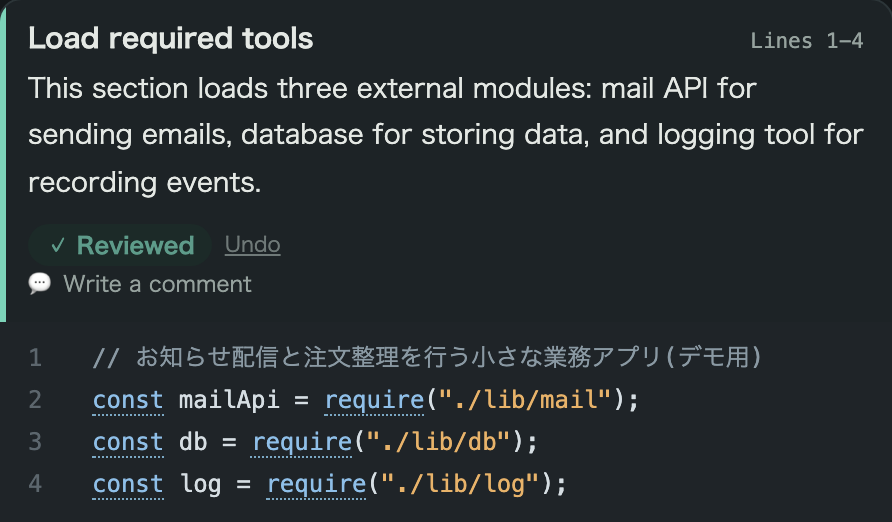
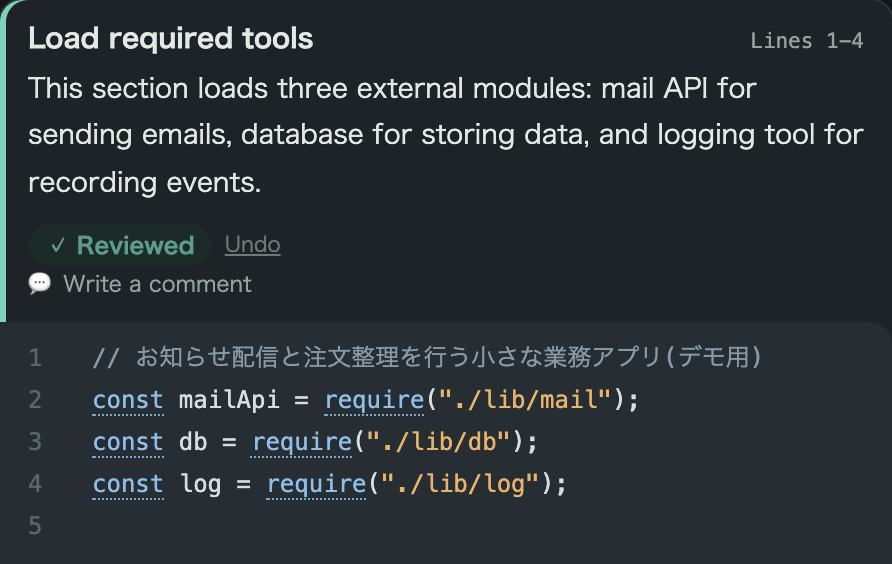
総点検で見つかった表示欠陥を修正: 全行表示の保証・説明の追従・長い行の折り返し
7場面(広い画面/明暗2配色/大きいファイル/物語再生/スマホ幅/埋め込み版/保存領域が使えない環境)を
自動監査した結果、次の3つを修正:

1. コードの穴: 説明の切れ目に挟まれた行(閉じ括弧・空行)が画面のどこにも出ていなかった
   (13ファイル・計71行が消失)。表示範囲を次のまとまり直前まで伸ばし、全行が必ず1度だけ出る
   ようにした。実測: 欠落0・重複0
2. 説明が置き去り: 長いまとまりでコードだけを空白の横で読む状態になっていた(親要素の
   overflow:hidden が追従を無効化していた)。説明がコードに寄り添って留まるようにした
3. 隠れたコード: 長い行が右端で切れ、横スクロールしないと読めなかった → 折り返して全文表示

検証: 全7場面で 未表示コード0・隠れたコード0・行の欠落0・横はみ出し0 (ALL_OK)
スクリーンショットとマニュアルも新レイアウトで撮り直し

diff --git a/generator/view-app.html b/generator/view-app.html
@@ -49,7 +49,12 @@
   .filehead { font-size:13px; font-weight:700; margin:16px 0 6px; display:flex; gap:8px; align-items:center; flex-wrap:wrap; }
   .filehead .role { font-weight:400; color:var(--muted); font-size:12px; }
   .achip { font-size:10px; font-weight:400; background:var(--soft); color:var(--muted); padding:0 7px; border-radius:999px; }
-  .pairsfile { border:1px solid var(--line); border-radius:12px; overflow:hidden; margin-bottom:20px; background:var(--surface); }
+  /* overflow:hidden は説明の追従(sticky)を壊すので使わない。角丸は端のセルに直接かける */
+  .pairsfile { border:1px solid var(--line); border-radius:12px; margin-bottom:20px; background:var(--surface); }
+  .pairsfile .sec:first-child .sec-l { border-top-left-radius:11px; }
+  .pairsfile .sec:first-child .sec-r { border-top-right-radius:11px; }
+  .pairsfile .sec:last-child .sec-l { border-bottom-left-radius:11px; }
+  .pairsfile .sec:last-child .sec-r { border-bottom-right-radius:11px; }
   .sec { display:grid; grid-template-columns:minmax(0,26rem) minmax(0,1fr); }
   .sec + .sec .sec-l { border-top:1px solid var(--line); }
   .sec:hover .sec-r { background:#262E34; }
@@ -57,7 +62,9 @@
   .sec.imp .sec-l { box-shadow:inset 3px 0 0 var(--warn-fg); }
   .sec.done-ok .sec-l { box-shadow:inset 3px 0 0 var(--ok-fg); }
   .sec.done-ng .sec-l { box-shadow:inset 3px 0 0 var(--crit-fg); }
-  .sec-l { padding:9px 14px 9px; display:flex; flex-direction:column; }
+  .sec-l { padding:9px 14px 9px; }
+  /* 長いまとまりでも説明がコードに寄り添って留まる(読んでいる場所と説明がずれない) */
+  .lwrap { position:sticky; top:44px; display:flex; flex-direction:column; }
   .sec-h { font-weight:700; font-size:13.5px; line-height:1.6; margin-bottom:2px; display:flex; align-items:baseline; gap:8px; }
   .sec-h .sec-a { margin:0 0 0 auto; font-weight:400; }
   .crumb { font-size:10.5px; color:var(--muted); font-family:Menlo,monospace; margin-bottom:3px; }
@@ -67,8 +74,10 @@
   .sec-warn { font-size:12px; color:var(--warn-fg); background:var(--warn-bg); border-radius:6px; padding:4px 10px; margin-top:6px; line-height:1.65; }
   .sec-a { font-size:10.5px; color:var(--muted); font-family:Menlo,monospace; }
   .sec-r { background:#1F2428; color:#D6DEE3; padding:8px 0; overflow-x:auto; font-family:Menlo,monospace; font-size:12px; line-height:1.75; }
-  .ln { display:flex; padding:0 14px; white-space:pre; }
+  /* 長い行も隠さず折り返す(横スクロールしないと読めない状態を作らない) */
+  .ln { display:flex; padding:0 14px; }
   .ln .no { width:32px; color:#5C666D; flex-shrink:0; user-select:none; }
+  .ln .src { white-space:pre-wrap; overflow-wrap:anywhere; text-indent:-2em; padding-left:2em; }
   .kw { border-bottom:1px dotted #7BA8C4; cursor:help; }
   .c-com { color:#8A99A3; } .c-str { color:#E8B36A; } .c-key { color:#8FBFE8; }
   .ref { border-bottom:1px dashed #6BC5A8; cursor:pointer; }
@@ -89,7 +98,7 @@
   #storybar .nx { border-color:var(--accent); color:var(--accent); }
   body.storying .warp { display:none; }
   body.storying main { padding-bottom:160px; }
-  .ctrl { margin-top:auto; padding-top:8px; display:flex; gap:6px; flex-wrap:wrap; align-items:center; opacity:.55; transition:opacity .15s; }
+  .ctrl { margin-top:8px; display:flex; gap:6px; flex-wrap:wrap; align-items:center; opacity:.55; transition:opacity .15s; }
   .sec:hover .ctrl, .sec:focus-within .ctrl { opacity:1; }
   .ctrl button { font-family:inherit; font-size:11.5px; padding:2px 10px; border-radius:999px; border:1px solid var(--line); background:var(--surface); color:var(--muted); cursor:pointer; }
   .ctrl .ok:hover { border-color:var(--ok-fg); color:var(--ok-fg); }
@@ -441,13 +450,23 @@ function render() {
     if (activeFile !== "__all__" && f.path !== activeFile) continue;
     const fsecs = secs.filter(s => s.file === f.path);
     if (!fsecs.length) continue;
+    // 表示範囲の保証: 説明の切れ目で行が消えないよう、各まとまりの表示を次のまとまりの直前まで伸ばす
+    // (閉じ括弧や空行は直前のまとまりに付く)。これでファイルの全行が必ず1度だけ画面に出る。
+    const starts = fsecs.map(s => parseLines(s.lines)[0] || 1);
+    const spans = fsecs.map((s, i) => {
+      const a = i === 0 ? 1 : starts[i];
+      const b = (i === fsecs.length - 1) ? f.lines.length : Math.max(a, starts[i + 1] - 1);
+      return { a, b };
+    });
     const ltMap = {};
     d.line_translations.filter(t => t.file === f.path).forEach(t => ltMap[t.line] = t);
     h += `<div class="filehead">${esc(f.path)}<span class="role">${f.role ? "— " + esc(f.role) : ""}</span>${f.author ? `<span class="achip">${L.author}: ${esc(f.author)}</span>` : ""}</div><div class="pairsfile">`;
-    for (const s of fsecs) {
+    fsecs.forEach((s, si) => {
       const k = secKey(s), st = rv[k] || {};
       const ki = SECKEYS.push(k) - 1;
-      const lines = parseLines(s.lines);
+      const lines = [];
+      for (let n = spans[si].a; n <= Math.min(spans[si].b, f.lines.length); n++) lines.push(n);
+      if (!lines.length) lines.push(spans[si].a);
       const secCards = d.cards.filter(c => c.file === f.path && parseLines(c.lines).some(n => lines.includes(n)));
       const imp = secCards.length > 0;
       if (imp) impCount++;
@@ -456,12 +475,12 @@ function render() {
       for (const n of lines) {
         if (n > f.lines.length) break;
         const t = ltMap[n];
-        code += `<div class="ln"${t ? ` title="${esc(t.translation)}"` : ""}><span class="no">${n}</span><span>${hlLine(f.lines[n - 1] || "", f.path, n)}</span></div>`;
+        code += `<div class="ln"${t ? ` title="${esc(t.translation)}"` : ""}><span class="no">${n}</span><span class="src">${hlLine(f.lines[n - 1] || "", f.path, n)}</span></div>`;
       }
       const border = st.v === "ok" ? " done-ok" : (st.v === "ng" || st.v === "uk") ? " done-ng" : "";
       SECMETA[ki] = { file: f.path, a: lines[0], b: lines[lines.length - 1] };
       h += `<div class="sec${imp ? " imp" : ""}${border}${veiled ? " veiled" : ""}" id="s${ki}"${veiled ? ` onclick="revealSec(event,this)"` : ""}>
-        <div class="sec-l">
+        <div class="sec-l"><div class="lwrap">
           <div class="sec-h">${imp ? `<span class="impb">${L.caution}</span>` : ""}${esc(s.heading)}<span class="sec-a">${L.lines(esc(String(s.lines)))}</span></div>
           ${(() => {
             const ch = scopeChain(f, lines[0]);
@@ -479,9 +498,9 @@ function render() {
             : `<details class="cwrap" onclick="event.stopPropagation()"><summary>${L.cmtOpen}</summary>
                <textarea id="ta-${ki}" placeholder="${L.cmtPh}"></textarea>
                <button class="hbtn" onclick="saveComment(event,${ki})">${L.save}</button></details>`}
-        </div>
+        </div></div>
         <div class="sec-r">${code}</div></div>`;
-    }
+    });
     h += `</div>`;
   }
 
